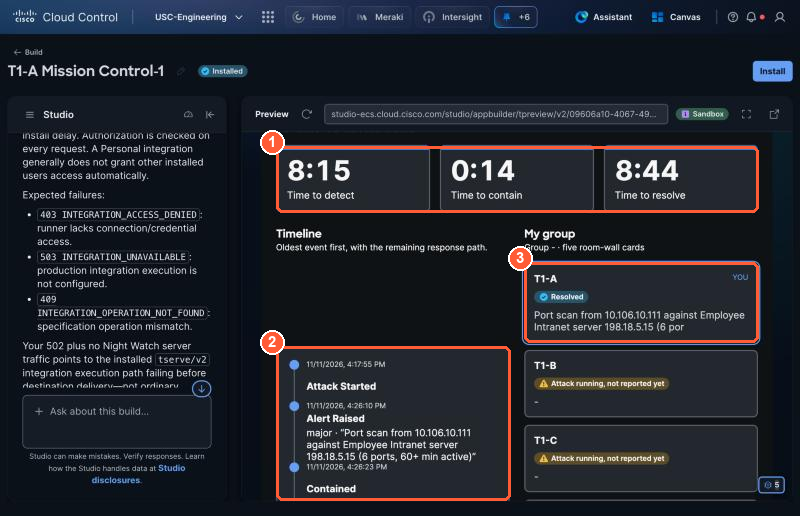
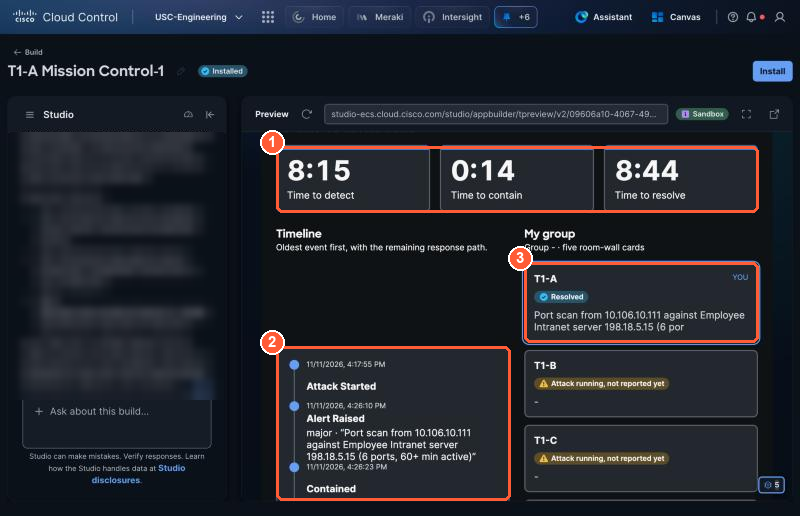
3.1: Preview-pane warning, blurred chat in resolved screenshot

Changed region(s): [[0.0312, 0.2481, 0.2812, 0.7752]]

diff --git a/docs/part3/3-1-mission-control.md b/docs/part3/3-1-mission-control.md
@@ -104,9 +104,14 @@ When the build finishes, the app opens in **Preview** on the right.
 4. **Response times**: Time to detect, Time to contain and Time to resolve, or *not yet*.
 5. **Install** would add the app to your **Apps** menu. Skip it for this lab: use the app here in **Preview**.
 
-!!! warning "Use the app in Preview"
-    At the moment an **installed** Studio app cannot reach REST integrations in this tenant: its panels say
-    *unavailable* while the same app works in the builder Preview. Everything in this lab works in Preview.
+!!! warning "Use the app in the Preview pane"
+    Work in the **Preview** pane on the right of the builder. Two other views are not reliable yet:
+
+    - **Open full preview** (and the pop-out icon) can show *Try again later* for several minutes before
+      any data loads.
+    - An **installed** app cannot reach REST integrations in this tenant yet: every panel says *unavailable*.
+
+    Everything in this lab works in the Preview pane.
 
 Scroll down:
 
@@ -129,10 +134,6 @@ Scroll down:
 
 - [ ] (1) **Recent changes** in the last 24 hours. (2) **same segment** marks a change on your service's
       segment: the first place to look when something breaks.
-
-!!! note "No business context?"
-    Only some lab services have a business-context record. If **My service** says *No business context
-    for this service*, the app is working; on call and recent changes still show.
 
 ## 5. Replay the night (3 min)
 
